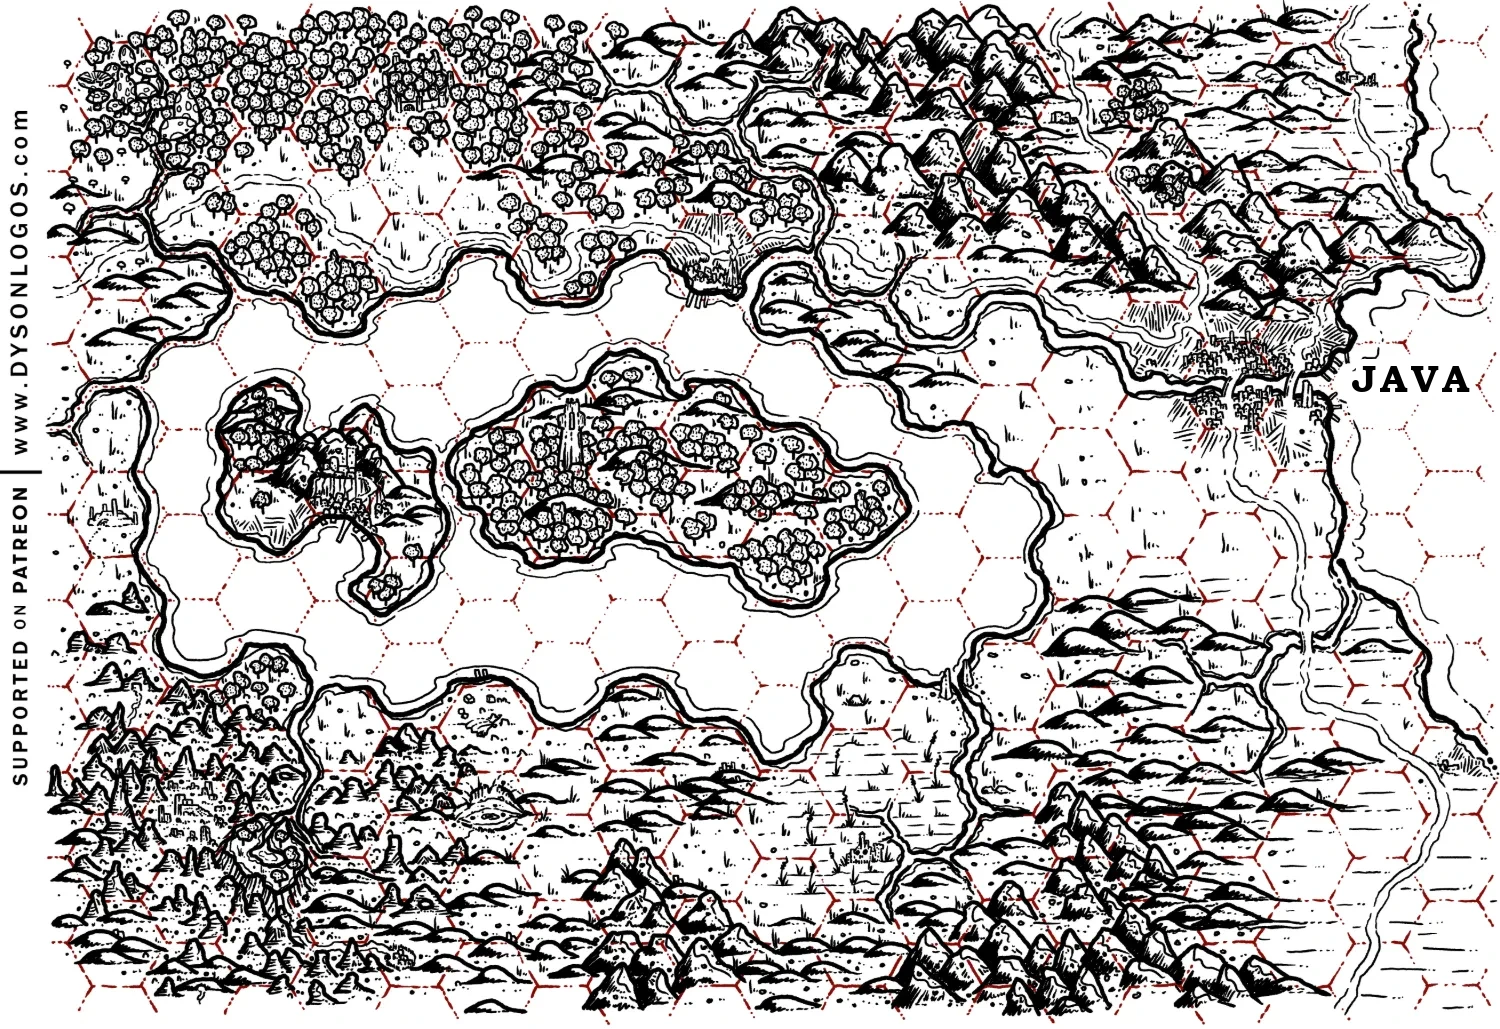
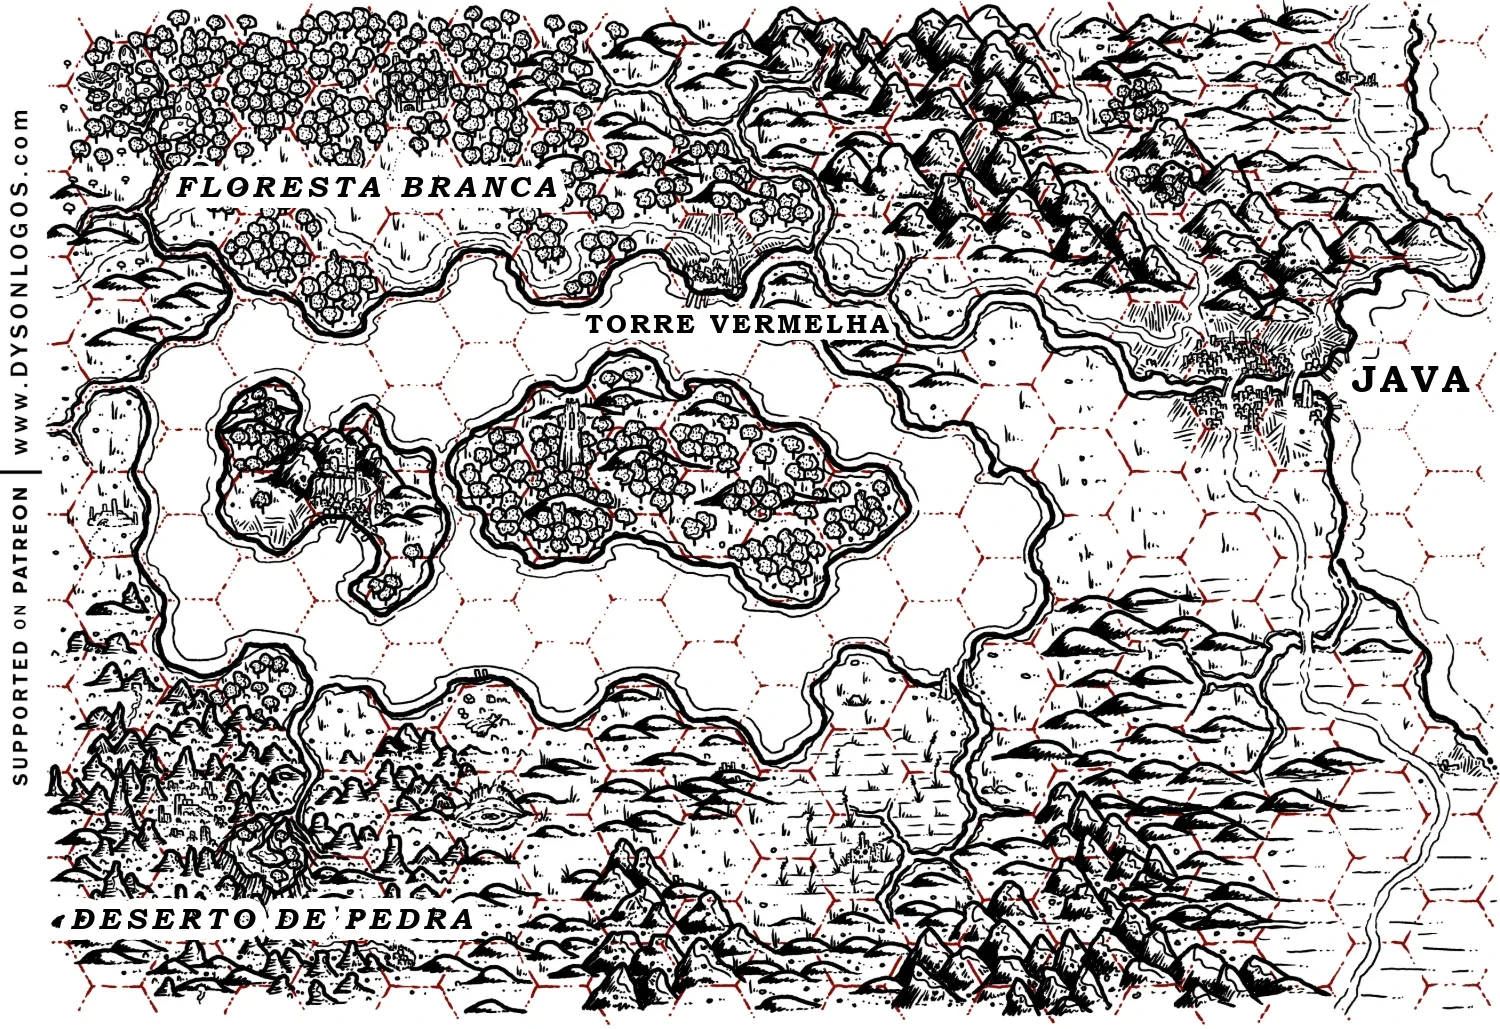
Adiciona os destinos de Aethelgard: Cidadela Escarlate e Cidade Perdida
Seção Para Onde Agora? no guia, Cidadela adaptada como destino (sem o
Funil), página nova da Cidade Perdida, grupo de nível 1 e nomes no mapa
gerados por campanhas/aethelgard/mapa.py.

Changed region(s): [[0.0307, 0.8707, 0.3373, 0.9329], [0.092, 0.1555, 0.3987, 0.2177], [0.3987, 0.2799, 0.6133, 0.3421]]

diff --git a/campanhas/aethelgard/mapa.py b/campanhas/aethelgard/mapa.py
@@ -1,0 +1,52 @@
+"""Escreve os nomes no mapa de Drayone (Aethelgard).
+
+Parte do mapa limpo de Dyson Logos e grava o mapa do site:
+    python campanhas/aethelgard/mapa.py
+Para um lugar novo, acrescente uma linha em NOMES: (texto, x, y, estilo).
+x e y são o canto superior esquerdo do texto, em pixels do mapa (1500 x 1029).
+"""
+from pathlib import Path
+from PIL import Image, ImageDraw, ImageFont
+
+RAIZ = Path(__file__).resolve().parents[2]
+PASTA = RAIZ / 'docs' / 'assets' / 'images' / 'aethelgard'
+FONTES = {
+    'cidade': (r'C:\Windows\Fonts\BOOKOSB.TTF', 38, 4, 7),   # maiúsculas, negrito
+    'lugar': (r'C:\Windows\Fonts\BOOKOSB.TTF', 26, 3, 7),    # vila, ruína
+    'regiao': (r'C:\Windows\Fonts\BOOKOSBI.TTF', 30, 5, 11),  # floresta, deserto
+}
+
+NOMES = [
+    ('JAVA', 1352, 356, 'cidade'),
+    ('TORRE VERMELHA', 585, 308, 'lugar'),
+    ('FLORESTA BRANCA', 175, 168, 'regiao'),
+    ('DESERTO DE PEDRA', 70, 900, 'regiao'),
+]
+
+
+def escrever(d, texto, x, y, estilo):
+    arquivo, tamanho, espaco, contorno = FONTES[estilo]
+    fonte = ImageFont.truetype(arquivo, tamanho)
+    x0 = x
+    for letra in texto:  # primeiro o contorno branco de tudo, depois as letras
+        d.text((x, y), letra, font=fonte, fill='white', stroke_width=contorno, stroke_fill='white')
+        x += d.textlength(letra, font=fonte) + espaco
+    x = x0
+    for letra in texto:
+        d.text((x, y), letra, font=fonte, fill='black', stroke_width=0)
+        x += d.textlength(letra, font=fonte) + espaco
+    return x
+
+
+def main():
+    im = Image.open(PASTA / 'mapa-drayone-limpo.webp').convert('RGB')
+    d = ImageDraw.Draw(im)
+    for texto, x, y, estilo in NOMES:
+        fim = escrever(d, texto, x, y, estilo)
+        if fim > im.width - 10:
+            print(f'Aviso: "{texto}" passa da borda ({fim:.0f} px).')
+    im.save(PASTA / 'mapa-drayone.webp', quality=90)
+
+
+if __name__ == '__main__':
+    main()

diff --git a/docs/campanhas/cidadela-escarlate.md b/docs/campanhas/cidadela-escarlate.md
@@ -2,7 +2,7 @@
 
 ![Scarlet Citadel: A Dungeon of Secrets](../assets/images/cidadela-escarlate/logo.webp){ .fj-arte .fj-arte-logo }
 
-Guia dos jogadores. Sistema: Forja RPG.
+Um destino da campanha Aethelgard (veja Para Onde Agora? em [Aethelgard](aethelgard.md)).
 
 ## A Proposta
 
@@ -10,7 +10,11 @@ Torre Vermelha é uma vila de lenhadores na borda da Floresta Branca. Ela vive d
 
 ![Torre Vermelha, com a torre de pedra vermelha junto à paliçada e uma carroça de toras chegando pela estrada](../assets/images/cidadela-escarlate/torre-vermelha.webp){ .fj-arte loading=lazy }
 
-Vocês não são aventureiros. São gente comum da vila. Quem sair vivo da primeira descida vira aventureiro. Depois disso, a campanha é descer, recuar, voltar à vila e descer de novo, cada vez mais fundo.
+Depois da primeira descida, a campanha é descer, recuar, voltar à vila e descer de novo, cada vez mais fundo.
+
+## Como Chegar
+
+Torre Vermelha fica na margem norte do lago, a uns 8 hexágonos a oeste de Java (veja Viagem). O castelo fica dentro da floresta, a noroeste da vila.
 
 ## O Que Se Diz na Jaula
 
@@ -24,38 +28,19 @@ Boatos da taverna da vila. Alguns são verdade.
 
 ![Aventureiros recuam por uma escadaria em chamas, perseguidos por mortos-vivos ensanguentados](../assets/images/cidadela-escarlate/capa.webp){ .fj-arte .fj-arte-retrato loading=lazy }
 
-## Quem É Você?
-
-Cada jogador cria 4 personagens de nível 0 para [o Funil](../mestre/index.md#o-funil), sorteados (veja [Personagem Aleatório](../personagem/index.md#personagem-aleatorio)). Para cada um, responda duas perguntas em uma frase.
-
-**Por que você vai entrar?** Escolha ou role 1d8.
-
-| d8 | Motivo |
-|---|---|
-| 1 | Você deve dinheiro a alguém que não espera. |
-| 2 | Alguém que você ama entrou na Cidadela e não voltou. |
-| 3 | Você apostou na Jaula que traria uma prova lá de dentro. |
-| 4 | A serraria te dispensou e há bocas para alimentar em casa. |
-| 5 | Os mercadores da vila pagam por notícias de uma comerciante sumida na estrada. |
-| 6 | Você sonha com o castelo toda noite. |
-| 7 | Sua fé manda limpar aquele lugar. |
-| 8 | O condestável Roch está atrás de você. |
-
-**Quem na vila sente sua falta?** Escolha uma pessoa.
+## Quem Mora na Vila
 
 **Ariadna e Ambrozy.** Os irmãos donos da Jaula, a taverna construída dentro da costela de um gigante. Um hóspede deles sumiu há uma semana.
 
 **Agniezka.** A ferreira, veterana de guerra, honesta e sempre resmungando.
 
-**Cecylia.** A sacerdotisa de Rava, deusa das engrenagens. Compra qualquer sucata estranha.
+**Cecylia.** Sacerdotisa de uma deusa das engrenagens. Compra qualquer sucata estranha.
 
 **Eva.** Cuida do pomar e sabe da vida de todo mundo.
 
 **Tobiasz.** O velho eremita do outro lado do rio. Xinga todo mundo que vai para a Cidadela.
 
-### O SOBREVIVENTE
-
-Ao chegar ao nível 1, responda: o que você viu lá embaixo e não consegue esquecer? Quem do grupo salvou sua vida? O que você quer encontrar lá agora? Os sobreviventes formam uma companhia. Ninguém fica para trás.
+**Roch.** O condestável da vila.
 
 ## Como Jogamos
 
@@ -64,8 +49,6 @@ Ao chegar ao nível 1, responda: o que você viu lá embaixo e não consegue esq
 **A masmorra reage.** O que vocês limparam pode estar ocupado de novo na volta.
 
 **Luz e barulho denunciam.** Quase tudo lá embaixo enxerga no escuro e ouve de longe.
-
-**Morte.** Personagem de nível 0 morre a 0 PV. Quem perder os quatro cria mais 1d4.
 
 ## Segurança
 
@@ -76,5 +59,3 @@ Ao chegar ao nível 1, responda: o que você viu lá embaixo e não consegue esq
 **Véus.** Acontecem fora de cena: tortura; rituais de sangue; experimentos com prisioneiros.
 
 **Pausa de um minuto.** Qualquer pessoa pode pedir uma pausa, sem explicar. Paramos, ajustamos e seguimos.
-
-Tragam suas linhas e véus para a sessão zero.

diff --git a/docs/campanhas/aethelgard.md b/docs/campanhas/aethelgard.md
@@ -98,13 +98,23 @@ A cidade inicial. Fica perto da costa e vive de exportar café.
 
 Uma região de Drayone. Java fica no leste, perto da costa, cercada pelas fazendas de café.
 
-![Mapa da região, em hexágonos, com Java marcada no leste, na costa](../assets/images/aethelgard/mapa-drayone.webp){ .fj-arte loading=lazy }
+![Mapa da região, em hexágonos: Java no leste, Torre Vermelha e a Floresta Branca ao norte do lago, o Deserto de Pedra a sudoeste](../assets/images/aethelgard/mapa-drayone.webp){ .fj-arte loading=lazy }
 
 Mapa de [Dyson Logos](https://dysonlogos.com).
 
 ## O Grupo
 
 **Como se conheceram.** Nas fazendas de Java.
+
+**Nível 1.** Um draconato paladino, um gnomo mago, um humano sacerdote e um anão ferreiro de guerra. Um lobo do mar chega na próxima sessão.
+
+## Para Onde Agora?
+
+Java está em paz, por enquanto. O grupo escolhe o próximo destino. Os dois ficam no mapa da região.
+
+**A Cidadela Escarlate.** A oeste, na borda da Floresta Branca, a vila de Torre Vermelha vive de quem desce às ruínas de um castelo vermelho. Há tesouro lá embaixo, e gente que não volta. Veja [A Cidadela Escarlate](cidadela-escarlate.md).
+
+**A Cidade Perdida.** A sudoeste, além do lago, o Deserto de Pedra esconde uma cidade engolida pela areia. Só o topo de uma pirâmide aparece. Veja [A Cidade Perdida](cidade-perdida.md).
 
 ## Linha do Tempo
 

diff --git a/docs/campanhas/cidade-perdida.md b/docs/campanhas/cidade-perdida.md
@@ -1,0 +1,26 @@
+# A Cidade Perdida
+
+Um destino da campanha Aethelgard (veja Para Onde Agora? em [Aethelgard](aethelgard.md)).
+
+## A Proposta
+
+A sudoeste do lago, a terra seca e vira o Deserto de Pedra: rochedos, cânions e areia. Dizem que a areia engoliu uma cidade inteira. Só o topo de uma pirâmide de degraus aparece acima das dunas.
+
+Primeiro, a viagem: atravessar a região, achar o caminho e sobreviver ao deserto. Depois, a pirâmide e o que houver embaixo dela.
+
+## Como Chegar
+
+O Deserto de Pedra fica a uns 15 hexágonos a sudoeste de Java, do outro lado do lago (veja Viagem). Ninguém em Java sabe o hexágono exato da pirâmide.
+
+**Água.** O deserto tem pouca. Leve para a ida e para a volta.
+
+## O Que Se Diz em Java
+
+Boatos do porto e das fazendas. Alguns são verdade.
+
+- Uma caravana cortou caminho pelo deserto. Uma tempestade de areia engoliu metade dela, e quem voltou jura que viu uma pirâmide.
+- A cidade era rica e caiu numa só geração. Ninguém sabe por quê.
+- Há luz nas frestas da pirâmide à noite.
+- Os reis da cidade foram enterrados com o seu ouro, e com armadilhas para quem viesse buscá-lo.
+- Os antigos de lá adoravam um deus que ninguém mais lembra. Talvez ele ainda se lembre deles.
+- Bichos do deserto crescem demais por lá: escorpiões, besouros, lagartos.
